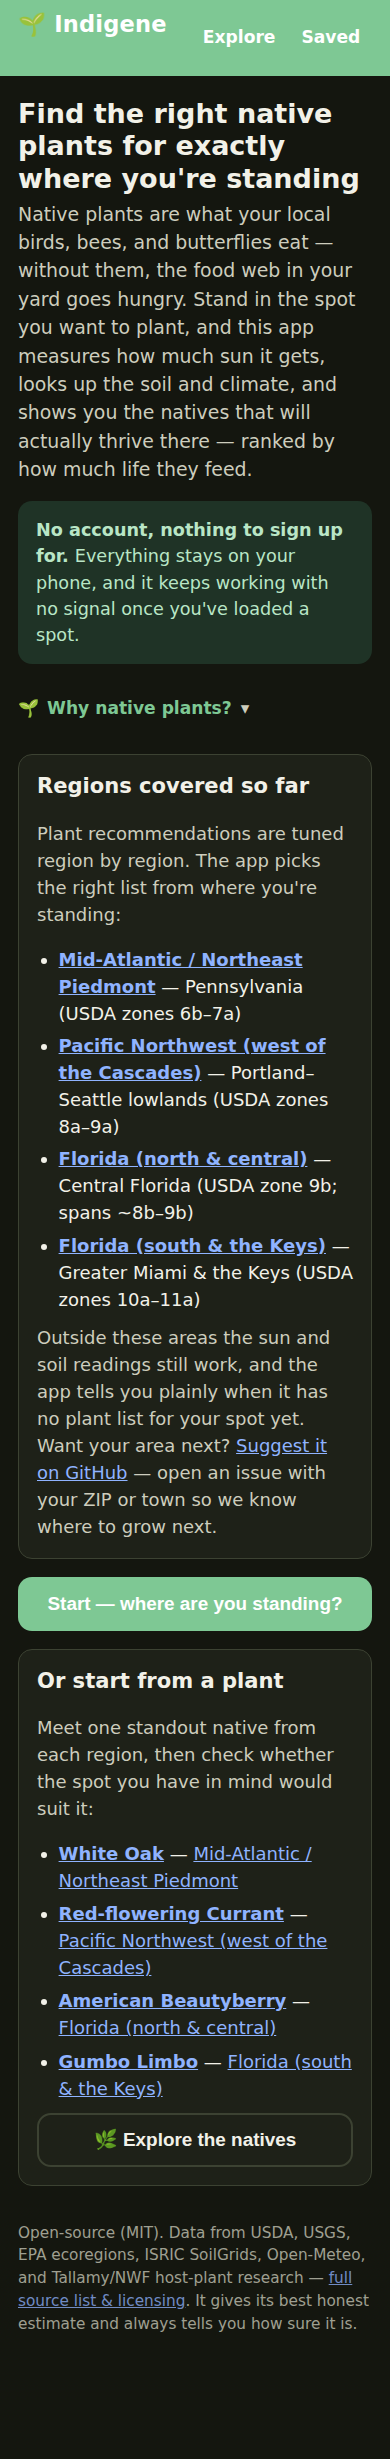
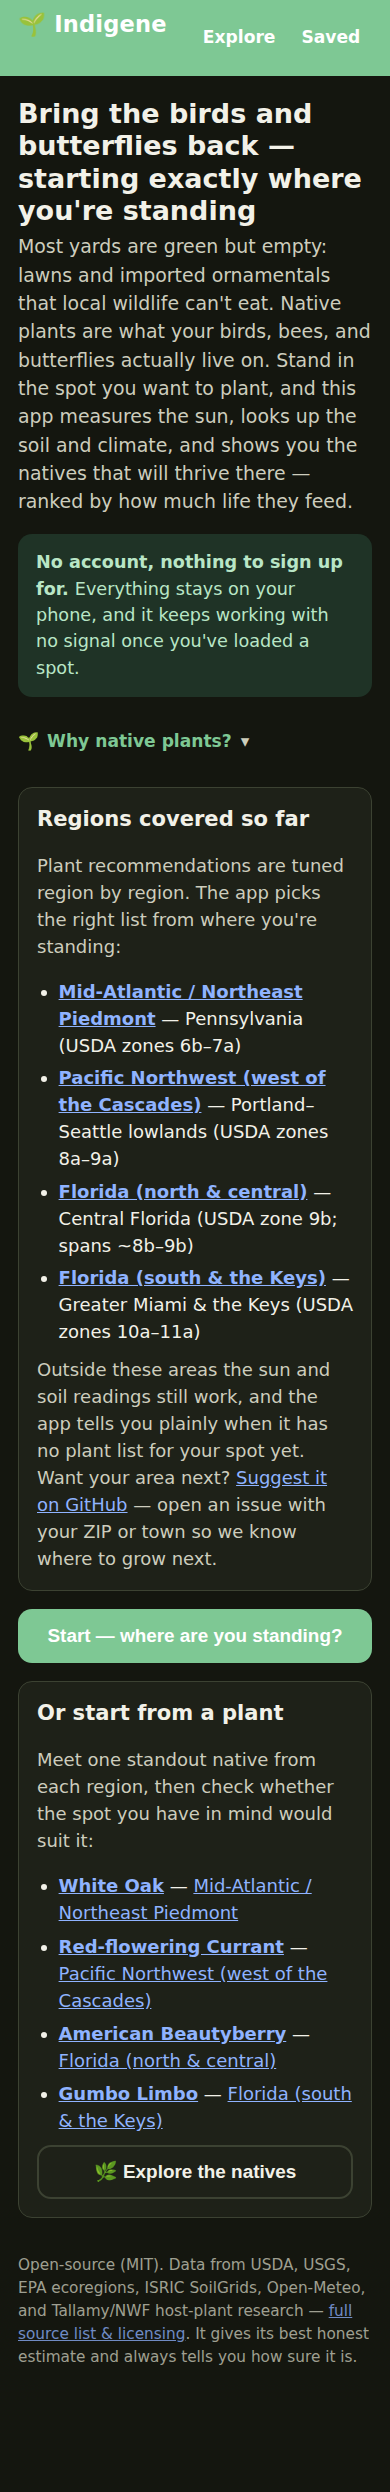
Lead the hero with the stakes, not the utility
"Find the right native plants..." sold the tool; the headline now sells
the reason: "Bring the birds and butterflies back — starting exactly
where you're standing." The lede opens on what's wrong (green-but-empty
yards wildlife can't eat) before explaining what the app does, and the
"Why native plants?" aside drops the line the lede now covers.

Refreshed the after-* screenshots to match.

Claude-Session: https://claude.ai/code/session_016cHCUmH4AuG8G3A6Jcmcp9

Changed region(s): [[0.0308, 0.0309, 0.9538, 0.9581], [0.0923, 0.8345, 0.1231, 0.8654]]

diff --git a/app/src/steps/welcome.ts b/app/src/steps/welcome.ts
@@ -11,9 +11,9 @@ export async function renderWelcome(main: HTMLElement): Promise<void> {
   const spots = await listSpots().catch(() => []);
 
   main.append(
-    el("h2", { class: "step-title" }, "Find the right native plants for exactly where you're standing"),
+    el("h2", { class: "step-title" }, "Bring the birds and butterflies back — starting exactly where you're standing"),
     el("p", { class: "step-lede" }, [
-      "Native plants are what your local birds, bees, and butterflies eat — without them, the food web in your yard goes hungry. Stand in the spot you want to plant, and this app measures how much sun it gets, looks up the soil and climate, and shows you the natives that will actually thrive there — ranked by how much life they feed.",
+      "Most yards are green but empty: lawns and imported ornamentals that local wildlife can't eat. Native plants are what your birds, bees, and butterflies actually live on. Stand in the spot you want to plant, and this app measures the sun, looks up the soil and climate, and shows you the natives that will thrive there — ranked by how much life they feed.",
     ]),
     el("div", { class: "note info" }, [
       el("strong", {}, "No account, nothing to sign up for. "),
@@ -21,7 +21,7 @@ export async function renderWelcome(main: HTMLElement): Promise<void> {
     ]),
     whyThis("Why native plants?", [
       "Most caterpillars can only eat the plants they evolved alongside, and nearly every backyard bird raises its chicks on caterpillars. No natives means no caterpillars, and no caterpillars means no baby birds. ",
-      "A lawn or an imported ornamental feeds almost nothing; a native plant is the bottom of the local food web, back in business the season you plant it.",
+      "A native plant is the bottom of the local food web — and it's back in business the season you plant it.",
     ]),
     el("div", { class: "card" }, [
       el("h3", {}, REGIONS.length > 1 ? "Regions covered so far" : "Right now this covers one region"),